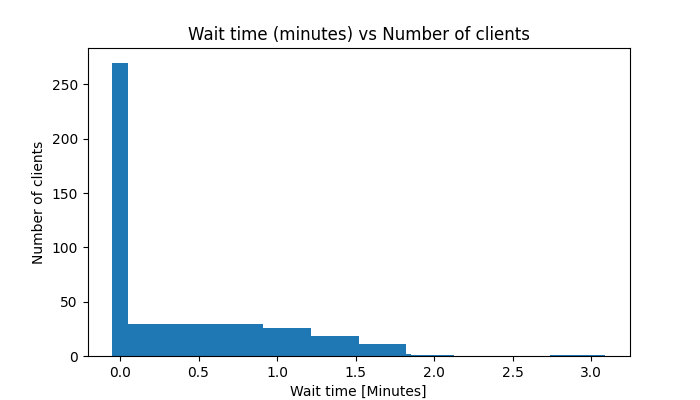
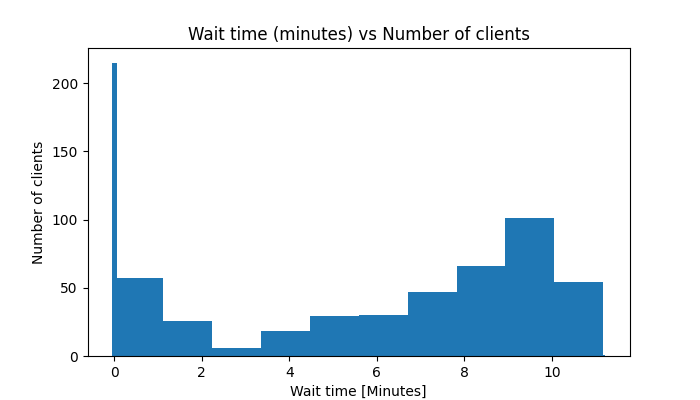
added rain factor

diff --git a/callcenter/CallCenter.py b/callcenter/CallCenter.py
@@ -56,6 +56,7 @@ class CallCenter:
         self.starting_number_of_agents = self.n_chat_agents + self.n_call_agents
         Probabilities.client_patience_ex = float(self.user_parameters.get("Client Patience ~ E(X)"))
         Probabilities.client_patience_var = float(self.user_parameters.get("Client Patience ~ V(X)"))
+        Probabilities.rain_factor = float(self.user_parameters.get("Rain Factor"))
         if self.mode == 'SeparatePool':
             percentage_of_rest_agents = 0.2  # 20% of the agents will answer calls from restaurants
             self.n_rest_agents = math.ceil(

diff --git a/helpers/Probability.py b/helpers/Probability.py
@@ -18,6 +18,7 @@ class Probabilities:
     """
     client_patience_ex = None
     client_patience_var = None
+    rain_factor = 1.3
 
     def __init__(self, time_of_day, date: datetime.datetime):
         self.time_of_day = time_of_day
@@ -142,7 +143,7 @@ class Probabilities:
         """
 
         if weather == 'rainy':
-            weather_factor = 1.3
+            weather_factor = Probabilities.rain_factor
         else:
             weather_factor = 1
 

diff --git a/callcenter/Graphs.py b/callcenter/Graphs.py
@@ -34,7 +34,7 @@ class Graphs:
         ax.set_ylabel('Number of clients')
         ax.set_xlabel('Hour of the day')
         ax.set_xticks(ticks=list(arrival_histogram.keys()))
-        ax.set_yticks(ticks=np.arange(0, 600, 50))
+        ax.set_yticks(ticks=np.arange(0, 1000, 50))
         ax.hist(arrival_histogram)
         plt.bar(arrival_histogram.keys(), arrival_histogram.values())
         plt.savefig('../flask/static/images/arrivals.png')
